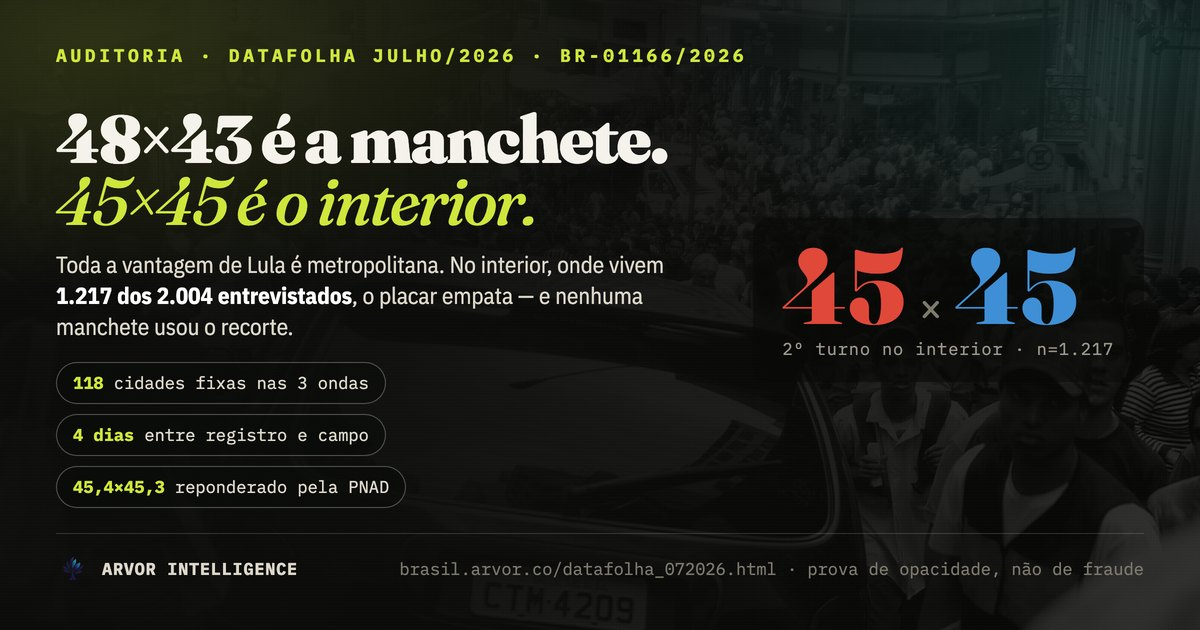
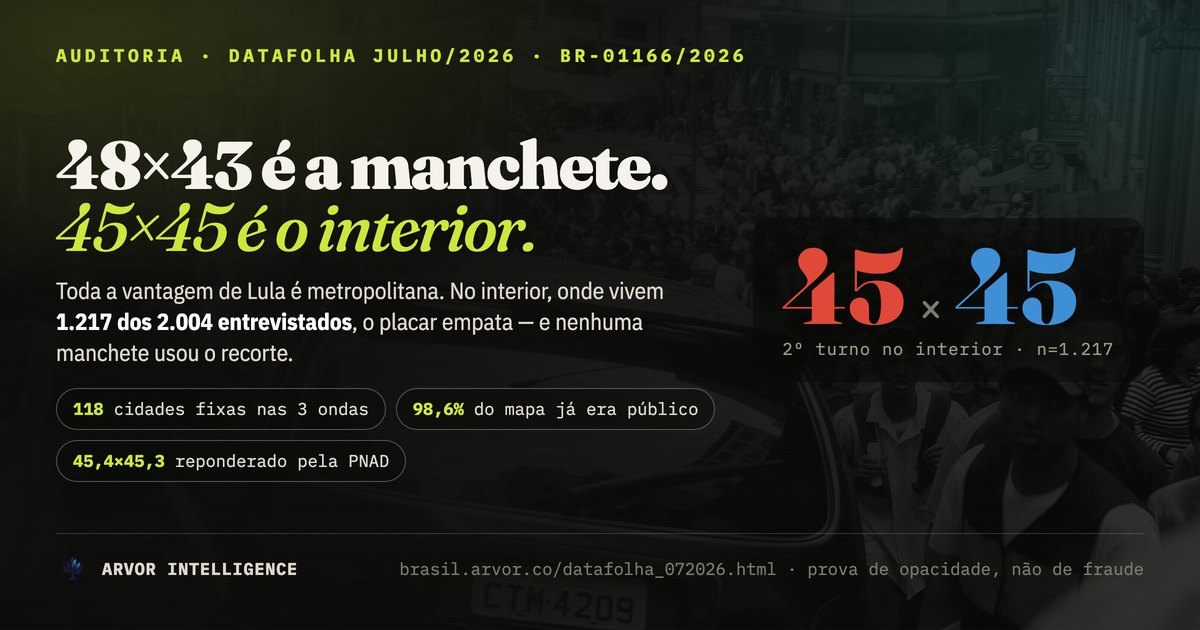
correção: o anexo territorial não é público antes do campo
Erro meu, corrigido em todas as peças. Eu afirmei que o mapa amostral ficava
conhecível quatro dias antes do campo, inferindo isso do art. 33, §3º da Lei
9.504/1997. O próprio registro BR-01166/2026 diz o contrário, e eu tinha o
documento: "a relação completa dos municípios e bairros pesquisados será
anexada ao registro até o dia seguinte à data de publicação da pesquisa,
conforme Resolução 23.600/2019 do TSE, no art. 2º, §7º". O anexo de julho
entrou no ar depois do campo, não antes.

O que é público antes do campo é o metadado: datas, tamanho da amostra,
contratante, valor, questionário e o plano amostral em termos gerais.

A tese sobrevive, com o mecanismo certo e mais difícil de defender: a
previsibilidade vem da repetição, não do prazo. O anexo de junho, público
desde 19/06, já continha 137 dos 139 municípios de julho, e 118 estão nas três
ondas com a mesma cota. O mapa antigo é o mapa novo.

E a crítica normativa fica mais afiada: como o anexo só chega depois da
divulgação, não existe prova pública de que a amostra estava definida antes do
campo. Os dispositivos § 7º-X e § 12-A passam a exigir depósito no registro,
antes do início da coleta, sob resumo criptográfico, com abertura na primeira
divulgação e vedação de entrega posterior.

Alcance da correção: posts 1, 9, 10 e 33 da thread e os cards 1 e 9; capítulos
05 e 06 e a petição do dossiê; o destaque e o quadro da proposta na home; os
dois social cards; as duas minutas; AGENTS.md e a memória do projeto.
[…]

Changed region(s): [[0.0308, 0.181, 0.555, 0.7841], [0.3392, 0.6333, 0.5858, 0.6635]]

diff --git a/docs/datafolha_072026_thread.html b/docs/datafolha_072026_thread.html
@@ -4,20 +4,20 @@
 <meta charset="utf-8">
 <meta name="viewport" content="width=device-width,initial-scale=1">
 <title>Thread X · Datafolha ajuda a campanha offline do Flávio · Arvor Intelligence</title>
-<meta name="description" content="Thread para o X sobre a auditoria do Datafolha de julho/2026 (BR-01166/2026): o painel fixo de 139 municípios registrado quatro dias antes do campo, o empate 45×45 no interior, a metade sem partido, o teste da hipótese com o resultado de 2022, a reponderação por renda contra a PNAD e um plano de campanha de chão. 33 posts longos com texto copiável e card 16:9 em cada um, incluindo a reponderação por renda contra a PNAD.">
+<meta name="description" content="Thread para o X sobre a auditoria do Datafolha de julho/2026 (BR-01166/2026): o painel fixo de 139 municípios, com 137 deles já publicados um mês antes, o empate 45×45 no interior, a metade sem partido, o teste da hipótese com o resultado de 2022, a reponderação por renda contra a PNAD e um plano de campanha de chão. 33 posts longos com texto copiável e card 16:9 em cada um, incluindo a reponderação por renda contra a PNAD.">
 <link rel="canonical" href="https://brasil.arvor.co/datafolha_072026_thread.html">
 <meta property="og:type" content="article">
 <meta property="og:site_name" content="Arvor Intelligence">
 <meta property="og:locale" content="pt_BR">
 <meta property="og:url" content="https://brasil.arvor.co/datafolha_072026_thread.html">
 <meta property="og:title" content="Datafolha ajuda a campanha offline do Flávio">
-<meta property="og:description" content="139 municípios, 118 fixos nas três ondas, registrados no TSE quatro dias antes do campo. E, dentro do próprio relatório, o interior empatado em 45×45.">
+<meta property="og:description" content="139 municípios, 118 fixos nas três ondas. O anexo de junho já trazia 137 dos 139 de julho. E, dentro do próprio relatório, o interior empatado em 45×45.">
 <meta property="og:image" content="https://brasil.arvor.co/img/datafolha_072026/og_thread.jpg">
 <meta property="og:image:secure_url" content="https://brasil.arvor.co/img/datafolha_072026/og_thread.jpg">
 <meta property="og:image:type" content="image/jpeg">
 <meta property="og:image:width" content="1200">
 <meta property="og:image:height" content="630">
-<meta property="og:image:alt" content="Datafolha ajuda a campanha offline do Flávio: 118 de 139 municípios repetidos, registro 4 dias antes do campo, 45×45 no interior.">
+<meta property="og:image:alt" content="Datafolha ajuda a campanha offline do Flávio: 118 de 139 municípios repetidos, 137 já publicados em junho, 45×45 no interior.">
 <meta name="twitter:card" content="summary_large_image">
 <meta name="twitter:site" content="@leonardodias">
 <meta name="twitter:creator" content="@leonardodias">
@@ -193,21 +193,19 @@ footer.foot b{color:var(--ink2)}
   <div class="post-label">Post <b>01</b> · abertura</div>
   <div class="card">
     <div class="ex">
-      <div class="bg" style="background-image:url('img/datafolha_072026/fotos/fluxo_25demarco.jpg')"></div><div class="veil"></div><span class="credit">foto: Otávio Nogueira · CC BY 2.0</span><span class="eyebrow">Datafolha · julho de 2026 · BR-01166/2026</span><p class="huge">4 dias</p><p class="sub">entre o registro do mapa amostral no TSE e a saída do primeiro entrevistador. <b>Nas três rodadas seguidas.</b></p><div class="steps"><div class="step"><b>18/07</b><span>registro no TSE</span></div><span class="arw">→</span><div class="step key"><b>22–24/07</b><span>campo na rua</span></div><span class="arw">→</span><div class="step"><b>24/07</b><span>manchete</span></div></div><div class="foot"><span>Arvor Intelligence · auditoria independente</span><b>brasil.arvor.co</b></div>
+      <div class="bg" style="background-image:url('img/datafolha_072026/fotos/fluxo_25demarco.jpg')"></div><div class="veil"></div><span class="credit">foto: Otávio Nogueira · CC BY 2.0</span><span class="eyebrow">Datafolha · julho de 2026 · BR-01166/2026</span><p class="huge">137 <small>de 139</small></p><p class="sub">municípios de julho já estavam no anexo de junho, <b>público um mês antes do campo</b>. O mapa antigo é o mapa novo.</p><div class="steps"><div class="step"><b>19/06</b><span>anexo de junho no ar</span></div><span class="arw">→</span><div class="step key"><b>22–24/07</b><span>campo de julho na rua</span></div><span class="arw">→</span><div class="step"><b>25/07</b><span>anexo de julho no ar</span></div></div><div class="foot"><span>Arvor Intelligence · auditoria independente</span><b>brasil.arvor.co</b></div>
     </div>
     <div class="copy"><span class="cc"></span>DATAFOLHA AJUDA A CAMPANHA OFFLINE DO FLÁVIO.
 
-Não é ironia. É consequência do método e da lei.
+Não é ironia. É consequência do desenho da pesquisa.
 
-O Datafolha ouve 2.004 eleitores em pontos de fluxo (rua, feira, calçadão, terminal) distribuídos em 139 municípios. Esse mapa não é secreto. Ele é registrado no TSE antes do campo, e o art. 33, §3º da Lei 9.504/1997 manda a Justiça Eleitoral dar publicidade ao registro em 24 horas, colocando as informações à disposição dos interessados.
+O Datafolha ouve 2.004 eleitores em pontos de fluxo (rua, feira, calçadão, terminal) distribuídos em 139 municípios. O mapa de cada rodada só vai ao ar depois da divulgação: o próprio registro avisa que a relação de municípios e bairros será anexada até o dia seguinte à publicação.
 
-Nas três últimas rodadas, o registro saiu exatamente quatro dias antes de o primeiro entrevistador sair de casa: 16/05 para o campo de 20–22/05; 13/06 para 17–19/06; 18/07 para 22–24/07.
+Só que ele quase não muda. Dos 139 municípios de julho, 137 já estavam no anexo de junho, que é público desde o dia 19. E 118 estão nas três ondas seguidas, com a mesma cota de entrevistas em cada uma.
 
-E o mapa quase não muda: 118 dos 139 municípios estão nas três ondas, com a mesma cota de entrevistas em cada uma.
+Quem tinha o mapa de junho já sabia, antes de o campo de julho começar, 98,6% de onde o Brasil seria ouvido. Não é vazamento. É repetição, e repetição publicada.
 
-Nesse intervalo, qualquer interessado consulta o plano amostral, o questionário e o anexo com a área física do trabalho.
-
-Auditamos os seis documentos oficiais do BR-01166/2026. Vai thread, com o número que muda a leitura da eleição e que nenhuma manchete publicou.</div>
+Auditamos os seis documentos oficiais do BR-01166/2026: relatório, questionário, registro, declaração da estatística, nota fiscal e anexo territorial. Vai thread, com o número que muda a leitura da eleição e que nenhuma manchete publicou.</div>
     <button class="copy-btn" type="button">Copiar texto</button>
   </div>
 </article>
@@ -377,19 +375,17 @@ A conta é refazível em dez minutos: pacote de votação por partido, municípi
   <div class="post-label">Post <b>09</b> · o que sobra é pior</div>
   <div class="card">
     <div class="ex">
-      <span class="eyebrow">O problema real não é viés, é previsibilidade</span><div class="steps"><div class="step"><b>16/05 → 20/05</b><span>maio</span></div><span class="arw">→</span><div class="step"><b>13/06 → 17/06</b><span>junho</span></div><span class="arw">→</span><div class="step key"><b>18/07 → 22/07</b><span>julho</span></div></div><p class="huge">4 · 4 · 4</p><p class="sub">dias entre registro e campo. <b>Três rodadas, o mesmo intervalo.</b></p><p class="sub">Lei 9.504/1997, art. 33, §3º: a Justiça Eleitoral dá publicidade ao registro em 24 horas.</p><div class="foot"><span>Transparência hoje colide com integridade da coleta</span><b>Arvor</b></div>
+      <span class="eyebrow">O problema real não é viés, é previsibilidade</span><div class="steps"><div class="step"><b>maio</b><span>118 municípios que voltam</span></div><span class="arw">→</span><div class="step"><b>junho</b><span>137 dos 139 de julho</span></div><span class="arw">→</span><div class="step key"><b>julho</b><span>2 trocas em 139</span></div></div><p class="huge">98,6%</p><p class="sub">do mapa de julho já estava publicado <b>antes de o campo de julho começar</b>, no anexo da rodada anterior.</p><p class="sub">O anexo de cada rodada só é entregue depois da divulgação, conforme o art. 2º, §7º da Res. 23.600/2019. A antecipação vem da repetição, não do prazo.</p><div class="foot"><span>Transparência hoje colide com integridade da coleta</span><b>Arvor</b></div>
     </div>
     <div class="copy"><span class="cc"></span>Cai a hipótese do viés. Sobra outra coisa, e ela é mais estrutural.
 
-O problema não é quais cidades foram escolhidas. É que são as mesmas, com as mesmas cotas, e que o mapa é registrado antes de o campo começar.
+O problema não é quais cidades foram escolhidas. É que são as mesmas, com as mesmas cotas, rodada após rodada.
 
-Maio: registro em 16/05, campo de 20 a 22/05. Junho: registro em 13/06, campo de 17 a 19/06. Julho: registro em 18/07, campo de 22 a 24/07. Quatro dias, três vezes seguidas.
+Faço questão de corrigir uma coisa que eu mesmo escrevi antes: o mapa de cada rodada não é público antes do campo. O registro de julho, protocolado em 18/07, diz textualmente que a relação de municípios e bairros seria anexada até o dia seguinte à data de divulgação, conforme o art. 2º, §7º da Resolução 23.600/2019. Ele saiu depois do campo, não antes.
 
-E o registro é público por lei. O art. 33, §3º da Lei 9.504/1997 determina que a Justiça Eleitoral dê publicidade ao registro em 24 horas e coloque as informações à disposição dos interessados. O anexo com a área física do trabalho é justamente o que cumpre o inciso IV do mesmo artigo.
+A previsibilidade vem de outro lugar, e é mais difícil de defender: o anexo de junho, público desde 19/06, já continha 137 dos 139 municípios de julho, e o de maio já trazia 118 deles.
 
-A transparência que protege o eleitor da fraude também antecipa a geografia da coleta. As duas coisas são verdadeiras ao mesmo tempo. Ninguém está discutindo isso.
-
-E isso não é um problema do Datafolha: vale para todo instituto que use ponto de fluxo e registre a área física do trabalho antes de ir a campo.</div>
+O mapa antigo é o mapa novo. E há uma consequência de auditoria nisso: como o anexo só chega depois da divulgação, não existe prova pública de que a amostra estava definida antes de o campo começar.</div>
     <button class="copy-btn" type="button">Copiar texto</button>
   </div>
 </article>
@@ -406,11 +402,11 @@ Porque o valor daquele mapa não é o que você imaginou. É melhor, e é legít
 
 O anexo diz onde o país está sendo ouvido, todo mês, com estabilidade: as mesmas 139 cidades, os mesmos volumes, as mesmas regiões. Nenhuma campanha brasileira tem, de graça e por obrigação legal do concorrente, uma lista assim.
 
-Uma candidatura que faz agenda de rua sistemática nessas cidades não está “influenciando pesquisa”. Está fazendo o que a política sempre fez: conversar com o eleitor onde ele passa. A diferença é que agora ela sabe, com precisão municipal, onde a conversa vira percepção nacional primeiro.
+Uma candidatura que faz agenda de rua sistemática nessas cidades não está influenciando pesquisa. Está fazendo o que a política sempre fez: conversar com o eleitor onde ele passa. A diferença é que agora ela sabe, com precisão municipal, onde a conversa vira percepção nacional primeiro.
 
 E é aí que entra a parte que quase ninguém tem coragem de falar em público: quem depende de estúdio, avião e capital não pisa nesses lugares. Quem faz chão, pisa.
 
-Não é preciso acreditar em mim. Baixe o anexo de qualquer rodada no PesqEle e você terá a lista completa, com município, bairro e geocódigo de 15 dígitos.</div>
+Baixe o anexo de qualquer rodada anterior no PesqEle e você terá a lista, com município, bairro e geocódigo de 15 dígitos.</div>
     <button class="copy-btn" type="button">Copiar texto</button>
   </div>
 </article>
@@ -952,7 +948,7 @@ E o cotejo é reprodutível: qualquer pessoa com o PDF, o número do registro e 
 
 O Datafolha não fabricou resultado. Não escolheu cidades para deprimir a direita: o painel dele votou 50,88% em Bolsonaro em 2022, contra 49,10% do Brasil. Testei a suspeita e ela caiu.
 
-O que existe é: um painel municipal fixo e não declarado; cotas idênticas há três rodadas; duas UFs que nunca entram; efeito de desenho, pesos e taxa de recusa não publicados; um dia de divergência no campo; cem reais de diferença na nota; um setor duplicado; e um mapa amostral que é público quatro dias antes de o campo começar.
+O que existe é: um painel municipal fixo e não declarado; cotas idênticas há três rodadas; duas UFs que nunca entram; efeito de desenho, pesos e taxa de recusa não publicados; um dia de divergência no campo; cem reais de diferença na nota; um setor duplicado; e um anexo territorial que só chega depois da divulgação, sem prova pública de que a amostra precedeu o campo.
 
 Existe um empate de 45×45 no interior, em 61% da amostra, que ninguém noticiou. E existe uma régua de renda 16,6 pontos fora da PNAD, que sozinha explica os cinco pontos.
 

diff --git a/docs/datafolha_072026.html b/docs/datafolha_072026.html
@@ -4,7 +4,7 @@
   <meta charset="utf-8">
   <meta name="viewport" content="width=device-width, initial-scale=1">
   <title>Datafolha julho/2026 — 48×43 é a manchete, 45×45 é o interior · Arvor</title>
-  <meta name="description" content="Auditoria independente do Datafolha BR-01166/2026: o empate no interior, a metade sem partido, o painel fixo de 139 municípios registrado quatro dias antes do campo, a reponderação por renda contra a PNAD que zera a vantagem de Lula, o terreno eleitoral de 2022 e um plano de campanha de chão. Prova de opacidade, não de fraude.">
+  <meta name="description" content="Auditoria independente do Datafolha BR-01166/2026: o empate no interior, a metade sem partido, o painel fixo de 139 municípios cujo mapa se repete de uma rodada para a outra, a reponderação por renda contra a PNAD que zera a vantagem de Lula, o terreno eleitoral de 2022 e um plano de campanha de chão. Prova de opacidade, não de fraude.">
   <link rel="canonical" href="https://brasil.arvor.co/datafolha_072026.html">
   <link rel="icon" href="favicon.ico" sizes="any">
   <link rel="icon" href="img/favicon.svg" type="image/svg+xml">
@@ -49,12 +49,12 @@
         <div>
           <p class="kicker">Datafolha · julho de 2026 · perícia documental, estatística e territorial</p>
           <h1>48×43 é a manchete.<em>45×45 é o interior.</em></h1>
-          <p class="deck">O placar nacional de segundo turno dá cinco pontos a Lula. Nos próprios cruzamentos do relatório, <strong>toda essa vantagem é metropolitana</strong>: nas capitais e regiões metropolitanas Lula faz 52×39; no interior, onde vivem <strong>1.217 dos 2.004 entrevistados</strong>, o placar é 45×45. A pesquisa também mede um Brasil que quase ninguém cita: os <strong>1.006 eleitores sem partido</strong>, metade da amostra, onde Flávio abre 48×35. E o mapa de onde tudo isso é medido — 139 municípios, 118 deles fixos há três rodadas — é registrado no TSE <strong>quatro dias antes de o primeiro entrevistador sair de casa</strong>. Por fim, a régua: a amostra tem <strong>52% na faixa até dois salários mínimos</strong> contra 35,4% na PNAD Contínua, e trocar só essa margem leva o segundo turno a 45,4 × 45,3.</p>
+          <p class="deck">O placar nacional de segundo turno dá cinco pontos a Lula. Nos próprios cruzamentos do relatório, <strong>toda essa vantagem é metropolitana</strong>: nas capitais e regiões metropolitanas Lula faz 52×39; no interior, onde vivem <strong>1.217 dos 2.004 entrevistados</strong>, o placar é 45×45. A pesquisa também mede um Brasil que quase ninguém cita: os <strong>1.006 eleitores sem partido</strong>, metade da amostra, onde Flávio abre 48×35. E o mapa de onde tudo isso é medido é quase sempre o mesmo: 139 municípios, <strong>137 deles já publicados no anexo de junho</strong>, um mês antes de o campo de julho começar. Por fim, a régua: a amostra tem <strong>52% na faixa até dois salários mínimos</strong> contra 35,4% na PNAD Contínua, e trocar só essa margem leva o segundo turno a 45,4 × 45,3.</p>
           <div class="hero-flash">
             <b><s>45×45</s> interior · n=1.217</b>
             <b><s>−5,11 pp</s> contribuição das metrópoles</b>
             <b><s>118</s> cidades fixas nas 3 ondas</b>
-            <b><s>4 dias</s> entre registro e campo</b>
+            <b><s>98,6%</s> do mapa de julho já estava publicado</b>
             <b><s>50,88%</s> Bolsonaro em 2022 no painel</b>
             <b><s>16,6 pp</s> a amostra mais pobre que a PNAD</b>
           </div>
@@ -602,8 +602,11 @@
         </div>
 
         <div class="callout reveal">
-          <span class="stamp inference">Quatro dias de antecedência</span>
-          <p>Nas três rodadas, o registro no TSE ocorre <strong>exatamente quatro dias antes do início do campo</strong>. O anexo territorial é o documento que cumpre o art. 33, IV, da Lei 9.504/1997 — “área física de realização do trabalho” — e o §3º do mesmo artigo obriga a Justiça Eleitoral a dar publicidade ao registro em 24 horas, colocando as informações à disposição dos interessados. <span class="stamp fact">Fato</span> as datas e a norma. <span class="stamp inference">Inferência</span> que o anexo com os 331 setores fique baixável desde o registro — não medimos o instante da liberação, e essa é uma verificação que qualquer partido pode fazer na próxima rodada.</p>
+          <span class="stamp inference">A antecipação vem da repetição, não do prazo</span>
+          <p><span class="stamp fact">Fato</span> o anexo territorial de cada rodada <strong>não é público antes do campo</strong>. O próprio registro de julho, protocolado em 18/07, declara que “a relação completa dos municípios e bairros pesquisados será anexada ao registro até o dia seguinte à data de publicação da pesquisa, conforme Resolução 23.600/2019 do TSE, no art. 2º, §7º”. O mapa de julho entrou no ar depois do campo, não antes.</p>
+          <p><span class="stamp fact">Fato</span> o que é público antes do campo é o registro: datas, tamanho da amostra, contratante, valor, questionário e o plano amostral em termos gerais.</p>
+          <p><span class="stamp inference">Inferência</span> a previsibilidade da geografia não depende disso. O anexo de junho, público desde 19/06, já continha <strong>137 dos 139 municípios de julho</strong>. Quem quisesse saber onde a rodada seguinte seria coletada não precisava esperar o anexo novo: bastava ler o antigo.</p>
+          <p><span class="stamp hypothesis">Consequência de auditoria</span> como o anexo só chega depois da divulgação, <strong>não existe prova pública de que a amostra estava definida antes do campo</strong>. É isso que o depósito prévio sob resumo criptográfico resolveria.</p>
         </div>
       </div>
     </section>
@@ -635,7 +638,7 @@
           <article class="card">
             <span class="stamp inference">O que sobra, e é mais grave</span>
             <h3>Previsível não é o mesmo que enviesado</h3>
-            <p>O problema real não é <em>quais</em> cidades foram escolhidas — é que são <strong>as mesmas</strong>, com <strong>as mesmas cotas</strong>, <strong>publicadas antes</strong>. Um painel fixo tem virtude estatística (reduz variância entre ondas e melhora comparabilidade) e um custo de integridade (torna a geografia da medição conhecível com antecedência).</p>
+            <p>O problema real não é <em>quais</em> cidades foram escolhidas. É que são <strong>as mesmas</strong>, com <strong>as mesmas cotas</strong>, e que o anexo de cada rodada, ao ser publicado, entrega a geografia da rodada seguinte. Um painel fixo tem virtude estatística, porque reduz a variância entre ondas e melhora a comparabilidade, e tem um custo de integridade, porque torna a medição previsível para quem lê o anexo anterior.</p>
             <p>Nenhuma das duas propriedades está declarada no relatório. Não há uma linha sobre protocolo de rotação, probabilidade de inclusão do município, ou por que Amapá e Roraima nunca entram.</p>
           </article>
         </div>
@@ -1095,7 +1098,7 @@
           </article>
           <article>
             <h3>Regular o intervalo registro–campo</h3>
-            <p>Nas três rodadas o registro antecede o campo em quatro dias e o art. 33, §3º da Lei 9.504/1997 manda dar publicidade em 24 horas. Propor que o anexo de área física seja depositado sob hash e aberto só após o encerramento do campo, preservando auditabilidade sem antecipar a geografia da coleta.</p>
+            <p>O anexo territorial só é entregue depois da divulgação, conforme o art. 2º, §7º da Resolução 23.600/2019, de modo que hoje não há prova pública de que a amostra estava definida antes do campo. Propor o depósito do anexo no registro sob resumo criptográfico, com abertura na primeira divulgação e conferência do hash.</p>
           </article>
         </div>
 
@@ -1107,7 +1110,7 @@
               <tr><td>Datas, custo e geocódigo incoerentes</td><td>Deficiência documental objetiva a esclarecer</td><td>Pedido de correção/acesso; eventual impugnação técnica</td></tr>
               <tr><td>Deff e pesos não públicos</td><td>A regra registra ponderação, mas não exige diagnóstico público completo</td><td>Acesso do legitimado + nova resolução ou lei</td></tr>
               <tr><td>Painel municipal fixo sem protocolo declarado</td><td>Lícito; não há exigência de publicar regra de rotação</td><td>Mudança normativa; pedido de plano amostral</td></tr>
-              <tr><td>Anexo territorial público antes do campo</td><td>Consequência do art. 33, §3º; transparência hoje colide com integridade da coleta</td><td>Depósito com hash e abertura pós-campo</td></tr>
+              <tr><td>Anexo territorial entregue só depois da divulgação</td><td>Permitido pelo art. 2º, §7º da Res. 23.600; não há prova de que a amostra precedeu o campo</td><td>Depósito sob hash no registro, aberto na divulgação</td></tr>
               <tr><td>Resultados temáticos fora do PDF público</td><td>O §7º-B mantém relatório completo reservado até depois da eleição, salvo ordem</td><td>Mudança normativa; não presumir infração</td></tr>
               <tr><td>Ausência de taxas de abordagem e recusa no fluxo</td><td>Lacuna crítica do modo presencial</td><td>Nova obrigação de transparência</td></tr>
             </tbody>

diff --git a/docs/proposta.html b/docs/proposta.html
@@ -155,8 +155,8 @@
               </tr>
               <tr>
                 <th scope="row">Mapa da coleta</th>
-                <td class="now">O anexo de área física é registrado antes do campo e a publicidade do registro é imediata: a geografia da coleta fica conhecível dias antes de o entrevistador sair.</td>
-                <td class="new">Depósito sob resumo criptográfico, reservado até o fim da coleta e aberto com a primeira divulgação, conferindo o resumo. <span class="ref">Res. § 7º-X · PL § 12-A</span></td>
+                <td class="now">O anexo de área física só precisa ser entregue depois da divulgação, até o dia seguinte (Res. 23.600, art. 2º, § 7º). Não há prova pública de que a amostra estava definida antes do campo.</td>
+                <td class="new">Depósito no registro sob resumo criptográfico, aberto com a primeira divulgação e conferido no ato. A amostra passa a ter data provável anterior ao campo. <span class="ref">Res. § 7º-X · PL § 12-A</span></td>
               </tr>
               <tr>
                 <th scope="row">Fonte da cota</th>
@@ -233,7 +233,7 @@
           <p><strong>“§ 7º-T.</strong> Em confronto de versões, notadamente entre acusação e resposta, os enunciados observarão simetria de carga e de extensão, e a divulgação incluirá o registro da revisão de equilíbrio do instrumento, com as alterações consideradas e adotadas.”</p>
           <p><strong>“§ 7º-U.</strong> A coleta de CPF, identificador de rede social, número de contato ou geolocalização individual exigirá finalidade específica, necessidade demonstrada, facultatividade, base legal e separação técnica das respostas de opinião, com dissociação comprovada; na ausência desses requisitos, a coleta é vedada.”</p>
           <p><strong>“§ 7º-V.</strong> O instrumento depositado será a versão final efetivamente aplicada, vedado campo substituto, placeholder ou resíduo de template, com resumo criptográfico próprio; capa, número da rodada, identificação do projeto, período de campo, valor, contratante e geocódigos serão conferidos e coerentes entre instrumento, relatório, registro, declaração, documento fiscal e anexo territorial, com validação automática de duplicidades e somas.”</p>
-          <p><strong>“§ 7º-X.</strong> O anexo de área física do trabalho será depositado no registro sob resumo criptográfico, permanecendo reservado até o encerramento da coleta e sendo aberto integralmente com a primeira divulgação. A abertura conferirá o resumo depositado, de modo que a auditabilidade seja preservada sem antecipar a geografia da coleta a interessados durante o campo.”</p>
+          <p><strong>“§ 7º-X.</strong> O anexo de área física do trabalho será depositado no registro, antes do início da coleta, sob resumo criptográfico, permanecendo reservado até o encerramento do campo e sendo aberto integralmente com a primeira divulgação, ocasião em que se conferirá o resumo depositado. Fica vedada a entrega do anexo posterior à primeira divulgação, de modo que a definição da amostra seja comprovadamente anterior ao campo sem que a geografia da coleta seja antecipada a interessados.”</p>
           <p><strong>“§ 7º-Y.</strong> Toda fonte de cota, calibração ou ponderação será identificada por pesquisa, edição, período de referência e data de divulgação, e a distribuição-alvo utilizada será publicada em nível comparável ao das faixas aplicadas. Cotas ou alvos expressos em valores monetários indicarão o mês de referência dos valores; quando a fonte disponível for mais recente que a utilizada, o instituto justificará a escolha.”</p>
           <p><strong>“§ 7º-Z.</strong> Em painel, coleta digital ou recrutamento por intermédio de plataforma, serão informados o mecanismo de recrutamento, as plataformas e campanhas empregadas, a existência de identificadores de clique ou de anúncio no instrumento, a natureza voluntária ou probabilística do ingresso, a taxa de conclusão por origem de tráfego e o tratamento dado à autosseleção.”</p>
           <h4 id="res-art-2o-divulgacao-grafica">Art. 2º · Divulgação gráfica</h4>
@@ -290,7 +290,7 @@
           <p><strong>§ 10.</strong> A proteção de segredo comercial não alcança pergunta, ordem, filtro, frequência, base, peso, alvo, erro amostral, efeito de desenho, taxa de resposta, regra de índice ou informação necessária para reproduzir resultado eleitoral divulgado.</p>
           <p><strong>§ 11.</strong> Toda divulgação gráfica conterá advertência legível sobre caráter transitório da estimativa, período de campo, base não ponderada de cada recorte, margem específica, nível de confiança e efeito de desenho; não sabe, não respondeu e recusa não serão omitidos da peça, e seu valor constará dela.</p>
           <p><strong>§ 12.</strong> É vedado denominar arquivo ou variável com unidade territorial mais granular que a efetivamente coletada. Geocódigos serão validados contra a malha oficial; duplicidade entre linhas exigirá agregação explícita ou correção, e séries publicarão protocolo de rotação, repetição e substituição de pontos.</p>
-          <p><strong>§ 12-A.</strong> O anexo de área física será depositado sob resumo criptográfico e permanecerá reservado até o encerramento da coleta, abrindo-se com a primeira divulgação mediante conferência do resumo.</p>
+          <p><strong>§ 12-A.</strong> O anexo de área física será depositado antes do início da coleta, sob resumo criptográfico, permanecerá reservado até o encerramento do campo e abrir-se-á com a primeira divulgação, mediante conferência do resumo, vedada a entrega posterior.</p>
           <p><strong>§ 13.</strong> Erro material será corrigido em até vinte e quatro horas nos mesmos meios e com alcance equivalente, mantidos publicamente o original, a retificação e a causa.</p>
           <p><strong>§ 14.</strong> O descumprimento dos §§ 6º, 6º-A, 6º-B, 6º-F, 7º a 13 e 15 a 17 caracteriza pesquisa não registrada e sujeita realizador e contratante, assegurados contraditório e ampla defesa, à multa de R$ 100.000 a R$ 1.000.000, graduada por alcance, dano, vantagem econômica e reincidência, além da obrigação de correção. A responsabilidade de quem apenas divulga resultado em violação ao § 6º-C rege-se pelo § 3º deste artigo, e não por este parágrafo, e não alcança quem tenha observado o § 6º-D.</p>
           <p><strong>§ 15.</strong> Pergunta que informe fato ao entrevistado, e resultado colhido após estímulo potencialmente persuasivo, serão rotulados “opinião após estímulo informacional”, com reprodução integral do conteúdo e indicação de sua posição na ordem, vedado apresentar a resposta como opinião prévia e espontânea.</p>

diff --git a/docs/nexus_btg_0726.html b/docs/nexus_btg_0726.html
@@ -817,7 +817,7 @@
           <p><strong>“§ 7º-T.</strong> Em confronto de versões, notadamente entre acusação e resposta, os enunciados observarão simetria de carga e de extensão, e a divulgação incluirá o registro da revisão de equilíbrio do instrumento, com as alterações consideradas e adotadas.”</p>
           <p><strong>“§ 7º-U.</strong> A coleta de CPF, identificador de rede social, número de contato ou geolocalização individual exigirá finalidade específica, necessidade demonstrada, facultatividade, base legal e separação técnica das respostas de opinião, com dissociação comprovada; na ausência desses requisitos, a coleta é vedada.”</p>
           <p><strong>“§ 7º-V.</strong> O instrumento depositado será a versão final efetivamente aplicada, vedado campo substituto, placeholder ou resíduo de template, com resumo criptográfico próprio; capa, número da rodada, identificação do projeto, período de campo, valor, contratante e geocódigos serão conferidos e coerentes entre instrumento, relatório, registro, declaração, documento fiscal e anexo territorial, com validação automática de duplicidades e somas.”</p>
-          <p><strong>“§ 7º-X.</strong> O anexo de área física do trabalho será depositado no registro sob resumo criptográfico, permanecendo reservado até o encerramento da coleta e sendo aberto integralmente com a primeira divulgação. A abertura conferirá o resumo depositado, de modo que a auditabilidade seja preservada sem antecipar a geografia da coleta a interessados durante o campo.”</p>
+          <p><strong>“§ 7º-X.</strong> O anexo de área física do trabalho será depositado no registro, antes do início da coleta, sob resumo criptográfico, permanecendo reservado até o encerramento do campo e sendo aberto integralmente com a primeira divulgação, ocasião em que se conferirá o resumo depositado. Fica vedada a entrega do anexo posterior à primeira divulgação, de modo que a definição da amostra seja comprovadamente anterior ao campo sem que a geografia da coleta seja antecipada a interessados.”</p>
           <p><strong>“§ 7º-Y.</strong> Toda fonte de cota, calibração ou ponderação será identificada por pesquisa, edição, período de referência e data de divulgação, e a distribuição-alvo utilizada será publicada em nível comparável ao das faixas aplicadas. Cotas ou alvos expressos em valores monetários indicarão o mês de referência dos valores; quando a fonte disponível for mais recente que a utilizada, o instituto justificará a escolha.”</p>
           <p><strong>“§ 7º-Z.</strong> Em painel, coleta digital ou recrutamento por intermédio de plataforma, serão informados o mecanismo de recrutamento, as plataformas e campanhas empregadas, a existência de identificadores de clique ou de anúncio no instrumento, a natureza voluntária ou probabilística do ingresso, a taxa de conclusão por origem de tráfego e o tratamento dado à autosseleção.”</p>
           <h4>Art. 2º · Divulgação gráfica</h4>
@@ -876,7 +876,7 @@
           <p><strong>§ 10.</strong> A proteção de segredo comercial não alcança pergunta, ordem, filtro, frequência, base, peso, alvo, erro amostral, efeito de desenho, taxa de resposta, regra de índice ou informação necessária para reproduzir resultado eleitoral divulgado.</p>
           <p><strong>§ 11.</strong> Toda divulgação gráfica conterá advertência legível sobre caráter transitório da estimativa, período de campo, base não ponderada de cada recorte, margem específica, nível de confiança e efeito de desenho; não sabe, não respondeu e recusa não serão omitidos da peça, e seu valor constará dela.</p>
           <p><strong>§ 12.</strong> É vedado denominar arquivo ou variável com unidade territorial mais granular que a efetivamente coletada. Geocódigos serão validados contra a malha oficial; duplicidade entre linhas exigirá agregação explícita ou correção, e séries publicarão protocolo de rotação, repetição e substituição de pontos.</p>
-          <p><strong>§ 12-A.</strong> O anexo de área física será depositado sob resumo criptográfico e permanecerá reservado até o encerramento da coleta, abrindo-se com a primeira divulgação mediante conferência do resumo.</p>
+          <p><strong>§ 12-A.</strong> O anexo de área física será depositado antes do início da coleta, sob resumo criptográfico, permanecerá reservado até o encerramento do campo e abrir-se-á com a primeira divulgação, mediante conferência do resumo, vedada a entrega posterior.</p>
           <p><strong>§ 13.</strong> Erro material será corrigido em até vinte e quatro horas nos mesmos meios e com alcance equivalente, mantidos publicamente o original, a retificação e a causa.</p>
           <p><strong>§ 14.</strong> O descumprimento dos §§ 6º, 6º-A, 6º-B, 6º-F, 7º a 13 e 15 a 17 caracteriza pesquisa não registrada e sujeita realizador e contratante, assegurados contraditório e ampla defesa, à multa de R$ 100.000 a R$ 1.000.000, graduada por alcance, dano, vantagem econômica e reincidência, além da obrigação de correção. A responsabilidade de quem apenas divulga resultado em violação ao § 6º-C rege-se pelo § 3º deste artigo, e não por este parágrafo, e não alcança quem tenha observado o § 6º-D.</p>
           <p><strong>§ 15.</strong> Pergunta que informe fato ao entrevistado, e resultado colhido após estímulo potencialmente persuasivo, serão rotulados “opinião após estímulo informacional”, com reprodução integral do conteúdo e indicação de sua posição na ordem, vedado apresentar a resposta como opinião prévia e espontânea.</p>

diff --git a/docs/index.html b/docs/index.html
@@ -134,7 +134,7 @@
               <span class="chip">n = 2.004</span>
             </div>
             <h2 class="title">48×43 é a manchete. <em>45×45 é o interior</em></h2>
-            <p>Lula marca <strong>48%</strong> e Flávio <strong>43%</strong>, mas a decomposição do próprio relatório mostra que <strong>toda a vantagem é metropolitana</strong>: capital e região metropolitana dão 52×39 a Lula e contribuem com −5,11 pontos; o interior, onde vivem 1.217 dos 2.004 entrevistados, está empatado em 45×45 e contribui com zero. No maior recorte da pesquisa — os <strong>1.006 eleitores sem partido</strong> — Flávio abre 48×35. O mapa de onde tudo é medido são 139 municípios, <strong>118 deles fixos nas três ondas com cota idêntica</strong>, registrados no TSE quatro dias antes do campo. Testamos a suspeita de cidades escolhidas contra o resultado de 2022: o painel votou 50,88% em Bolsonaro contra 49,10% do país, e a hipótese caiu. Já a régua de renda não passa: a amostra tem <strong>52% até dois salários mínimos</strong> contra 35,4% na PNAD Contínua, e trocar só essa margem leva o segundo turno a <strong>45,4 × 45,3</strong>. Opacidade não é fraude.</p>
+            <p>Lula marca <strong>48%</strong> e Flávio <strong>43%</strong>, mas a decomposição do próprio relatório mostra que <strong>toda a vantagem é metropolitana</strong>: capital e região metropolitana dão 52×39 a Lula e contribuem com −5,11 pontos; o interior, onde vivem 1.217 dos 2.004 entrevistados, está empatado em 45×45 e contribui com zero. No maior recorte da pesquisa — os <strong>1.006 eleitores sem partido</strong> — Flávio abre 48×35. O mapa de onde tudo é medido são 139 municípios, <strong>118 deles fixos nas três ondas com cota idêntica</strong>, e 137 dos 139 de julho já estavam no anexo de junho. Testamos a suspeita de cidades escolhidas contra o resultado de 2022: o painel votou 50,88% em Bolsonaro contra 49,10% do país, e a hipótese caiu. Já a régua de renda não passa: a amostra tem <strong>52% até dois salários mínimos</strong> contra 35,4% na PNAD Contínua, e trocar só essa margem leva o segundo turno a <strong>45,4 × 45,3</strong>. Opacidade não é fraude.</p>
             <div class="scoreline">
               <div><b>45×45</b><span>segundo turno no interior, 60,7% da amostra</span></div>
               <div><b>118</b><span>municípios fixos nas três ondas, com a mesma cota</span></div>
@@ -177,8 +177,8 @@
           </div>
           <div class="shift-row">
             <span class="shift-tema">O mapa antes do campo</span>
-            <span class="shift-hoje">O anexo com os setores é registrado <b>quatro dias antes</b> de o entrevistador sair, e a Lei 9.504 manda dar publicidade ao registro em 24 horas. A geografia da coleta fica conhecível enquanto o campo ainda não começou.</span>
-            <span class="shift-prop">Depósito <b>sob resumo criptográfico</b>, reservado até o fim da coleta e aberto na primeira divulgação com conferência do <i>hash</i>. Auditoria intacta, geografia não antecipada.</span>
+            <span class="shift-hoje">O anexo com municípios, bairros e setores só é entregue <b>depois da divulgação</b>, até o dia seguinte. Não existe prova pública de que a amostra estava definida antes de o campo começar.</span>
+            <span class="shift-prop">Depósito <b>no registro, sob resumo criptográfico</b>, aberto na primeira divulgação com conferência do <i>hash</i>. Fica provado que a amostra precedeu o campo, sem antecipar a geografia.</span>
           </div>
           <div class="shift-row">
             <span class="shift-tema">De onde vem a cota</span>

diff --git a/docs/social.html b/docs/social.html
@@ -205,7 +205,7 @@ body.solo .card.on{display:block}
         <p class="dfsub">Toda a vantagem de Lula é metropolitana. No interior, onde vivem <b>1.217 dos 2.004 entrevistados</b>, o placar empata — e nenhuma manchete usou o recorte.</p>
         <div class="chips">
           <span class="chip"><s>118</s> cidades fixas nas 3 ondas</span>
-          <span class="chip"><s>4 dias</s> entre registro e campo</span>
+          <span class="chip"><s>98,6%</s> do mapa já era público</span>
           <span class="chip"><s>45,4×45,3</s> reponderado pela PNAD</span>
         </div>
       </div>
@@ -230,7 +230,7 @@ body.solo .card.on{display:block}
       <div class="dftitle" style="font-size:58px">DATAFOLHA AJUDA<br>A CAMPANHA<em>offline do Flávio</em></div>
       <div class="ladder">
         <div class="lrow"><span>Municípios repetidos nas três ondas</span><b>118 de 139</b></div>
-        <div class="lrow"><span>Registro do mapa antes do campo</span><b>4 dias</b></div>
+        <div class="lrow"><span>Mapa de julho já publicado em junho</span><b>98,6%</b></div>
         <div class="lrow key"><span>Segundo turno no interior</span><b>45 × 45</b></div>
       </div>
     </div>

diff --git a/docs/build_proposta.py b/docs/build_proposta.py
@@ -333,8 +333,8 @@ TEMPLATE = """<!doctype html>
               </tr>
               <tr>
                 <th scope="row">Mapa da coleta</th>
-                <td class="now">O anexo de área física é registrado antes do campo e a publicidade do registro é imediata: a geografia da coleta fica conhecível dias antes de o entrevistador sair.</td>
-                <td class="new">Depósito sob resumo criptográfico, reservado até o fim da coleta e aberto com a primeira divulgação, conferindo o resumo. <span class="ref">Res. § 7º-X · PL § 12-A</span></td>
+                <td class="now">O anexo de área física só precisa ser entregue depois da divulgação, até o dia seguinte (Res. 23.600, art. 2º, § 7º). Não há prova pública de que a amostra estava definida antes do campo.</td>
+                <td class="new">Depósito no registro sob resumo criptográfico, aberto com a primeira divulgação e conferido no ato. A amostra passa a ter data provável anterior ao campo. <span class="ref">Res. § 7º-X · PL § 12-A</span></td>
               </tr>
               <tr>
                 <th scope="row">Fonte da cota</th>

diff --git a/AGENTS.md b/AGENTS.md
@@ -181,7 +181,8 @@
 - A neighborhood label is not a sampling unit. Compare polling rounds by the 15-digit IBGE census-sector geocode; the same neighborhood may contain many different sectors.
 - Rebuild the July 2026 Datafolha campaign layer with `python3 scripts/datafolha-072026-campanha.py` (run `scripts/datafolha-072026-audit.py` first: it produces the territorial CSV the campaign script consumes). It measures the fixed municipal panel (118 of 139 municipalities in all three waves with identical quotas), aggregates TSE electorate coverage in streaming mode, transcribes the report crosstabs from pages 24–33 and cross-checks the panel against the official 2022 runoff.
 - The Datafolha municipal panel is not politically skewed: its 139 municipalities voted 50.88% Bolsonaro in the 2022 runoff against 49.10% nationally, and 49.33% when weighted by interviews. Test that hypothesis before repeating it.
-- Registration precedes fieldwork by exactly four days in the May, June and July 2026 Datafolha waves, and Lei 9.504/1997 art. 33, §3º requires the Electoral Justice to publicize the registration within 24 hours. Treat the dates and the statute as fact; treat "the annex is downloadable from the moment of registration" as an inference still to be verified.
+- The territorial annex is **not** public before fieldwork. Res. TSE 23.600, art. 2º, §7º lets the institute file the municipality and neighbourhood list from the divulgation day up to the next day, and the July 2026 Datafolha registration says so in its own words. What is public at registration time is metadata: field dates, sample size, contractor, value, questionnaire and a generic sampling plan. Do not claim the map leaks before the field; that claim was published once and corrected.
+- The predictability comes from repetition, not from the filing deadline: June's annex, public since 19/06, already contained 137 of July's 139 municipalities. The auditable consequence of the current rule is different and sharper: because the annex only arrives after divulgation, **there is no public proof that the sample was defined before the field**. That is what the hashed prior deposit (Res. § 7º-X, PL § 12-A) fixes.
 - Rebuild the June–July 2026 Quaest territorial comparison with `python3 scripts/quaest-territory-audit.py --refresh-ibge`. It validates selected sectors against the Panorama service and writes auditable CSV/JSON without imputing vote from Census demographics.
 - Rebuild the Atlas July/2026 numbers with `python3 scripts/atlas-072026-audit.py` (writes `docs/assets/atlas_072026_audit.json`) and the Datafolha territorial concentration with `python3 scripts/datafolha-072026-cidades.py` (writes `docs/assets/datafolha_072026_territorio.json`). The second reads the CSV produced by `datafolha-072026-audit.py`, so it needs no `pdfplumber`.
 - Atlas crossbreaks are published as images inside the PDF; `pdftotext` and PyMuPDF return only titles. Render the crossbreak pages (`fitz` at ~115 dpi) and transcribe them into the audit script's constant tables, citing the page number.
